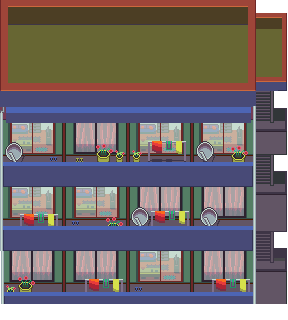
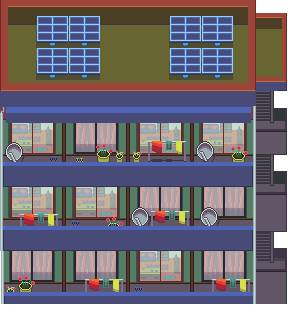
created solar panels on the roofs. changed info signs

Changed region(s): [[0.5625, 0.0312, 0.8125, 0.25], [0.125, 0.0312, 0.375, 0.25]]

diff --git a/lib/constants/info_text.dart b/lib/constants/info_text.dart
@@ -15,14 +15,18 @@ class InfoText{
       'For your own safety, keep clear of worksite\n\n'
       '-Stark Construction Company';
 
-  static const String combini = 'Go 24hr convenience store\n\n'
-      'Get the best deals in town';
-
   static const String soup_kitchen = 'Soup Kitchen\n\n'
-      'Run by Florence';
+      'Run by Florence\n\n'
+      'Our facility uses low-flow toilets, faucets, and shower heads to conserve water\n\n'
+      'We also practice greywater recycling.\n'
+      'Water from sinks and showers (greywater) can be treated then reused for tasks that don\'t require clean water\n'
+      'These tasks include flushing toilets and watering plants.';
 
   static const String school = 'Gomiland Elementary School\n\n'
-      'Where young minds flourish';
+      'Where young minds flourish\n\n'
+      'This building like many others in Gomiland have solar panels on its roof\n'
+      'Solar panels can significantly reduce electricity bills and dependence on the grid.\n'
+      'They also contribute to sustainability by generating clean, renewable energy.';
 
   static const String player_garden = 'Community Zen Garden\n\n'
       'Beautify the garden with these simple steps!\n\n'
@@ -100,7 +104,7 @@ class InfoText{
       '2. Provide economic support for natural and cultural resources through tourism\n';
 
   static const String castle = 'Gomiland castle\n\n\n'
-      'Please do not throw trash on the castle grounds.';
+      'Please do not throw trash on the castle grounds.\n\n';
 
   static const String sakuras = 'Cherry Blossoms\n\n'
       'Due to climate change, Cherry Blossom blooms are happening earlier each year.\n'
@@ -139,6 +143,7 @@ class InfoText{
   static const String statue = 'Statue under restoration\n\n\n'
       'We apologise for the inconvenience\n\n'
       'Helping others could speed up restoration efforts...';
+
   static const String warrior = 'Statue of brave eco-warrior\n\n\n'
       'Provider of aid to those in need,\n'
       'protector of our ecosystems\n'

diff --git a/lib/game/ui/info_popup/info_popup_data.dart b/lib/game/ui/info_popup/info_popup_data.dart
@@ -41,7 +41,6 @@ class InfoPopData {
     _data['warrior'] = InfoPopupObject(text: InfoText.warrior);
     // Room
     _data['how_to_sort'] = InfoPopupObject(text: InfoText.how_to_sort);
-    _data['combini'] = InfoPopupObject(text: InfoText.combini);
   }
 
   final Map<String, InfoPopupObject> _data = {};

diff --git a/lib/constants/constants.dart b/lib/constants/constants.dart
@@ -1,7 +1,7 @@
 // flame
 // ignore_for_file: constant_identifier_names
 
-const isDebugMode = true;
+const isDebugMode = false;
 const double gameWidth = 1000;
 const double gameHeight = 600;
 const double viewportWidth = 800;
